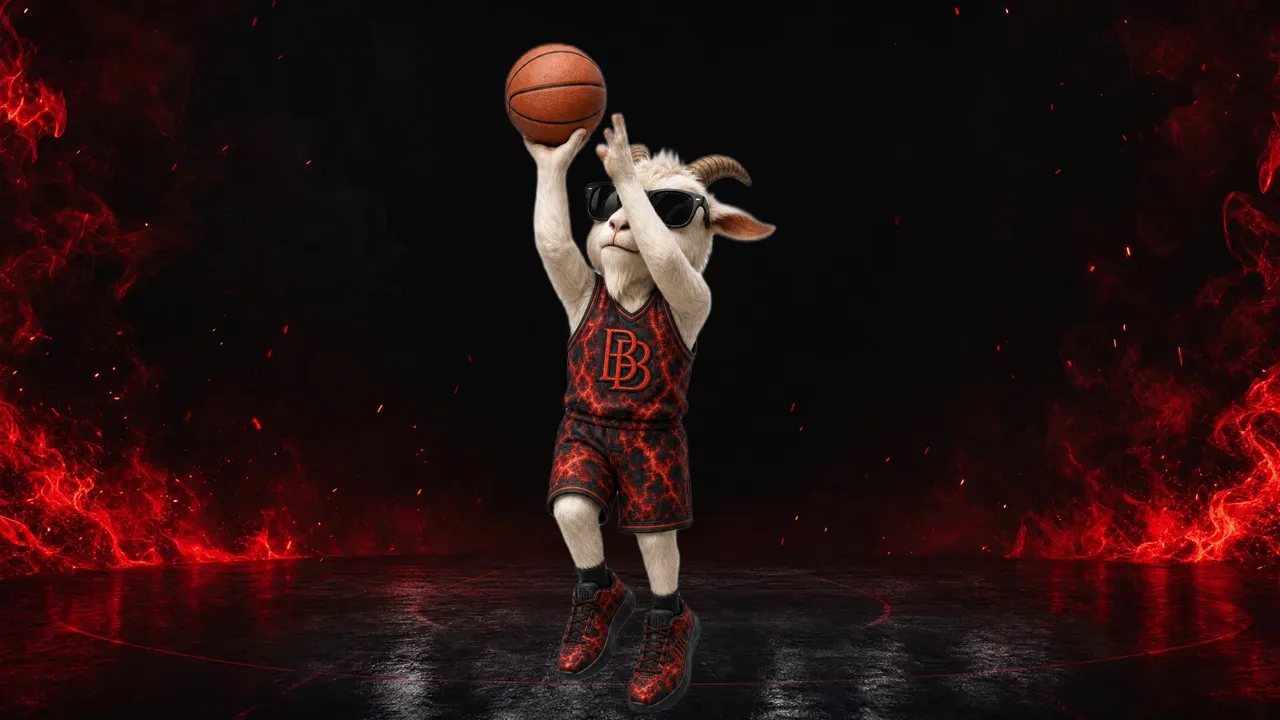
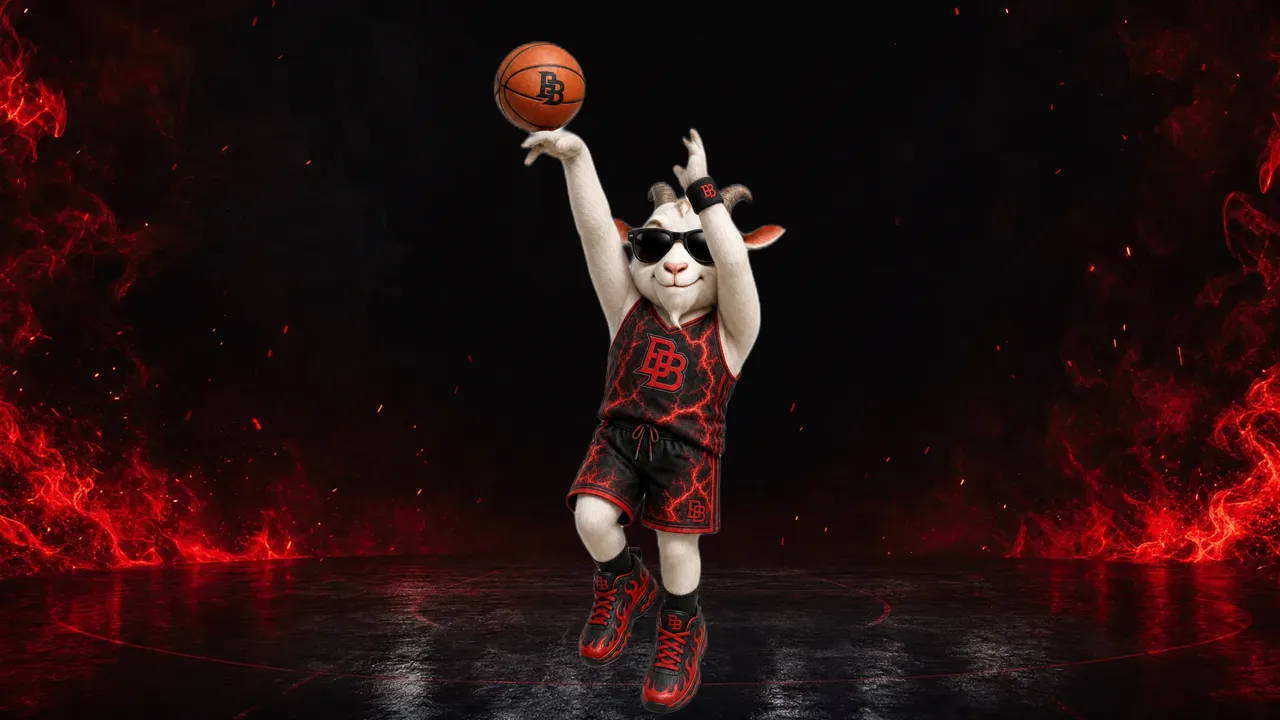
Ice mode: snowy scenes (no fire) for hero + action, snow overlay, white cards, fixed ice mascot
- Replaced blue-fire videos with a genuine snowy ice arena scene in Ice mode
- Falling snow across the page in Ice mode; embers hidden
- Every product card background white
- Ice mascot regenerated (full body, shoes fixed) + animation restored

Changed region(s): [[0.375, 0.0611, 0.625, 1.0]]

diff --git a/src/styles/global.css b/src/styles/global.css
@@ -306,6 +306,19 @@
 .theme-ice .animate-ember {
   display: none;
 }
+/* In Ice mode, hide the fiery videos and show the snowy still scene instead. */
+.hero-ice,
+.action-ice {
+  display: none;
+}
+.theme-ice .hero-fire,
+.theme-ice .action-fire {
+  display: none;
+}
+.theme-ice .hero-ice,
+.theme-ice .action-ice {
+  display: block;
+}
 
 /* Rising ember particle. */
 @keyframes bb-ember {

diff --git a/src/components/Hero.tsx b/src/components/Hero.tsx
@@ -19,7 +19,7 @@ export default function Hero() {
     <section className="relative flex min-h-[100svh] items-center overflow-hidden">
       {/* ---- Background: video if present, the still as poster otherwise ---- */}
       <video
-        className="absolute inset-0 h-full w-full object-cover"
+        className="hero-fire absolute inset-0 h-full w-full object-cover"
         poster="/img/hero/hero-scene.webp"
         autoPlay
         muted
@@ -30,6 +30,13 @@ export default function Hero() {
       >
         <source src="/img/hero/hero.mp4" type="video/mp4" />
       </video>
+      {/* Snowy still shown only in Ice mode (CSS handles the swap). */}
+      <img
+        src="/img/hero/ice-scene.webp"
+        alt=""
+        aria-hidden="true"
+        className="hero-ice absolute inset-0 h-full w-full object-cover"
+      />
 
       {/* Dark scrim so the headline stays readable over the flames. */}
       <div className="absolute inset-0 bg-gradient-to-r from-background via-background/70 to-background/20" />